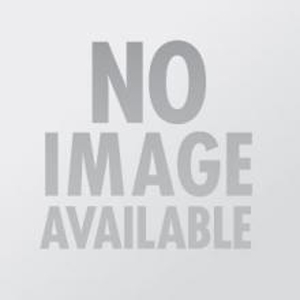
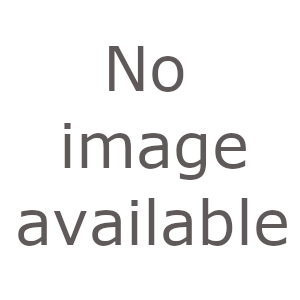
Use custom no image available PNG

diff --git a/web/vue.config.js b/web/vue.config.js
@@ -4,13 +4,6 @@
 
 // vue.config.js
 module.exports = {
-
-  // https://cli.vuejs.org/guide/webpack.html
-  configureWebpack: {
-    plugins: [
-    ],
-  },
-
   // options...
 
   // https://cli.vuejs.org/config/#devserver

diff --git a/web/src/components/Wizard/DiscoveryTemplateCard.vue b/web/src/components/Wizard/DiscoveryTemplateCard.vue
@@ -17,7 +17,6 @@
 
 <script>
 import { mapActions } from 'vuex';
-import api from '@/api/apiUtil';
 
 export default {
   name: 'DiscoveryTemplateCard',
